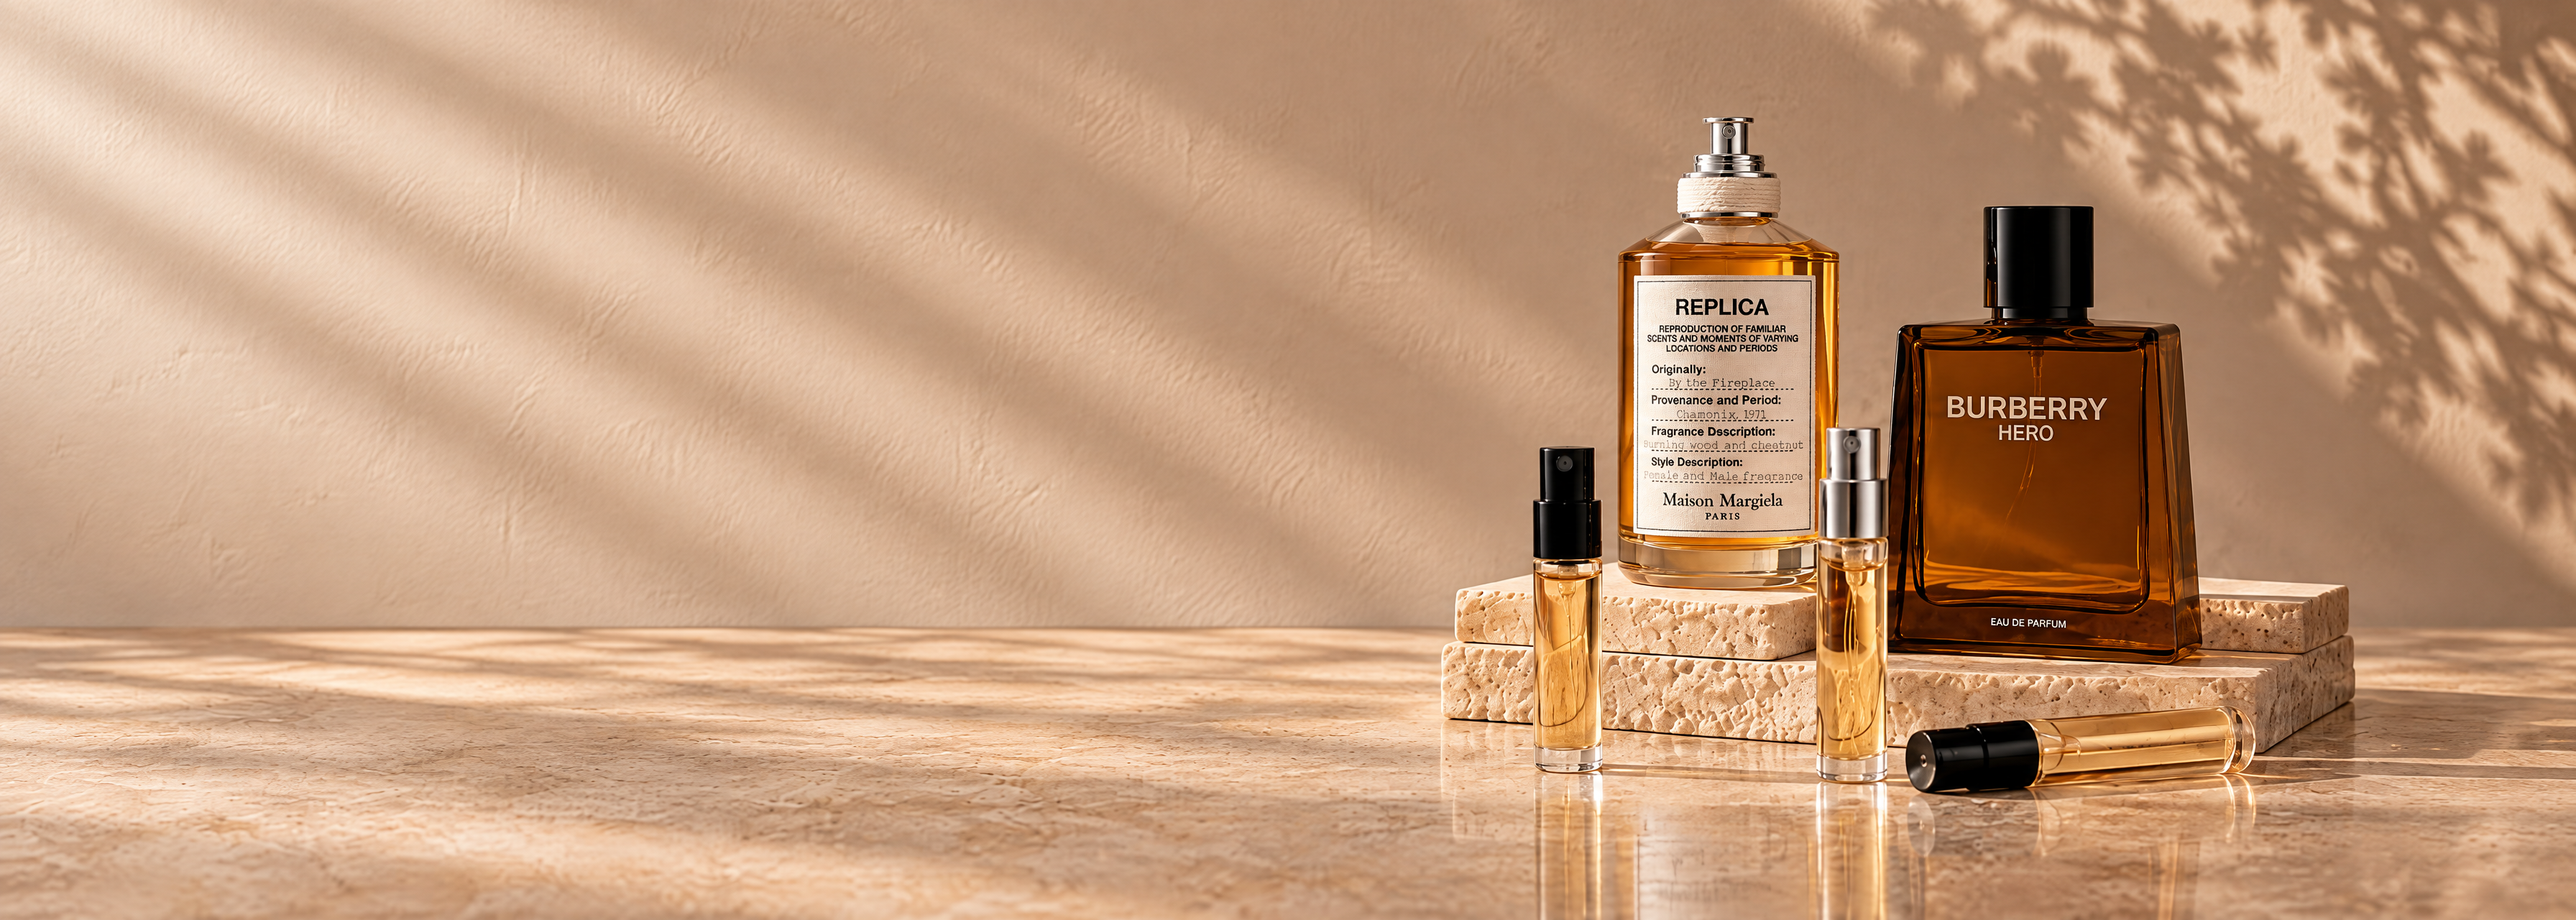
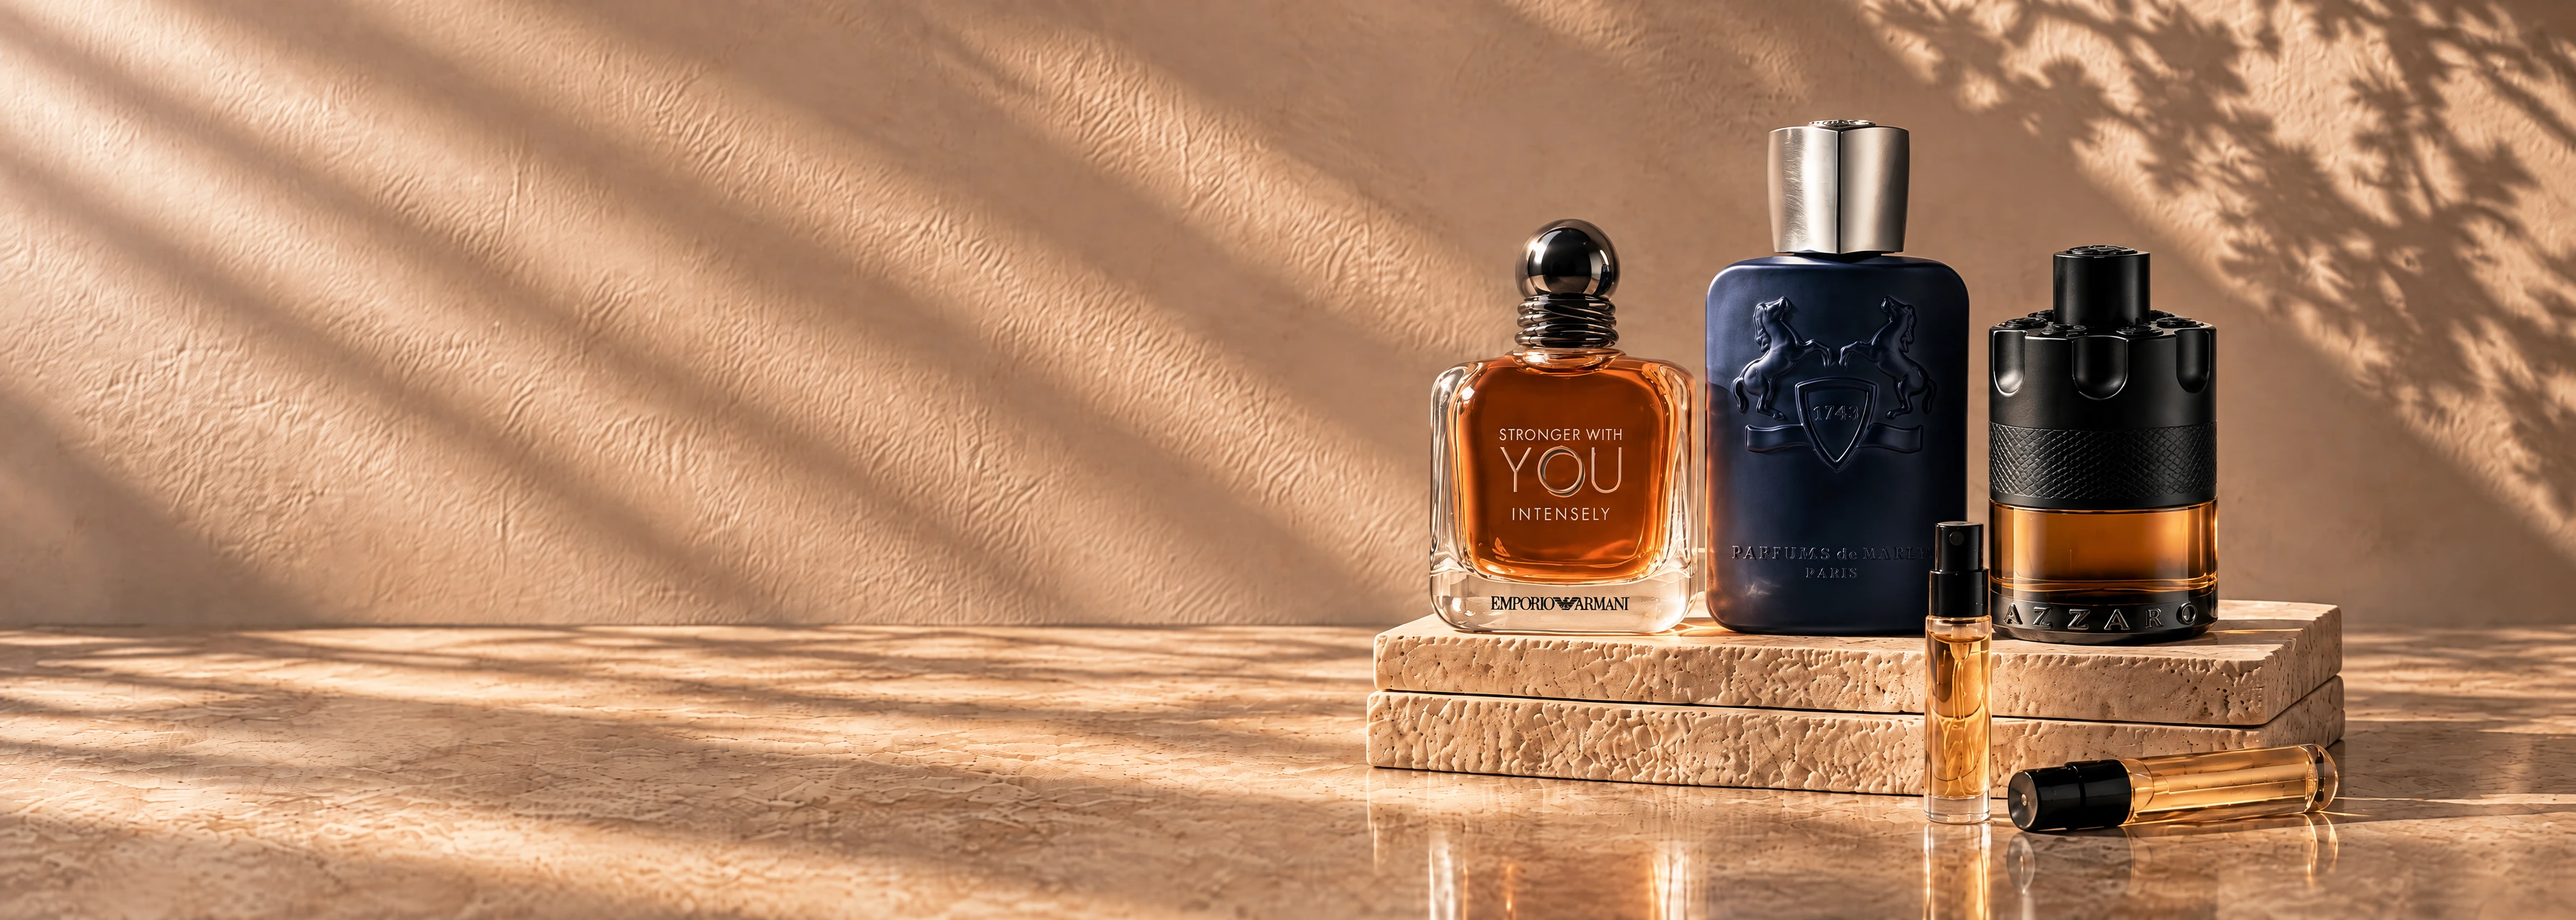
feat(home): hero зургийг Armani SWY Intensely, PdM Layton, Azzaro TMW Parfum-аар солив
- hero-desktop-v4-{1600,2400,3200}.webp, hero-mobile-v4.webp; v3 файлуудыг устгав
- утасны зурагт барааг 62%-иас баруун тийш, тексттэй давхцахгүй
- prompts/hero-{desktop,mobile}.md-д v4 prompt

diff --git a/src/features/marketing/home-content.ts b/src/features/marketing/home-content.ts
@@ -47,16 +47,16 @@ export type HomeCampaignImage =
  */
 const HERO_PHOTO: HomeCampaignImage = {
   kind: "static",
-  src: "/hero-desktop-v3-1600.webp",
+  src: "/hero-desktop-v4-1600.webp",
   width: 1600,
   height: 571,
   srcSet: [1600, 2400, 3200]
-    .map((w) => `/hero-desktop-v3-${w}.webp ${w}w`)
+    .map((w) => `/hero-desktop-v4-${w}.webp ${w}w`)
     .join(", "),
-  alt: "Maison Margiela Replica, Burberry Hero болон decant савнууд",
+  alt: "Armani Stronger With You Intensely, Parfums de Marly Layton, Azzaro The Most Wanted Parfum болон decant савнууд",
   // Зургийг солихдоо файлын НЭРИЙГ ч соль: ижил URL-д Next-ийн зургийн кэш
   // (.next/cache/images, Vercel CDN) болон Safari хуучин зургийг өгсөөр байдаг.
-  mobile: { src: "/hero-mobile-4x3.webp", width: 1365, height: 1024 },
+  mobile: { src: "/hero-mobile-v4.webp", width: 1600, height: 1200 },
 };
 
 export interface HomeCampaign {

diff --git a/prompts/hero-mobile.md b/prompts/hero-mobile.md
@@ -3,7 +3,7 @@
 > Солих бүрэн дараалал: [hero.md](./hero.md).
 
 **Model:** `gpt-image-2` · **edits** endpoint · size **2048×1536** (4:3 шууд; артефакт гарвал 1536×1152) · quality high · `input_fidelity=high`
-**Reference (input) images:** 1) барааны цэвэр бүтээгдэхүүний зураг (шошго тод), 2) `public/desktop.webp` — бараа, гэрэл, өнгө.
+**Reference (input) images:** 1) Armani Stronger With You Intensely, 2) Parfums de Marly Layton, 3) Azzaro The Most Wanted Parfum — цэвэр бүтээгдэхүүний зураг (шошго тод), 4) `public/desktop.webp` — бараа, гэрэл, өнгө.
 **Output:** `public/mobile.png` (эх, тайрахгүй) → `resize(1600)` webp q85 →
 `public/hero-mobile-v<N>.webp`; `home-content.ts`-ийн `HERO_PHOTO.mobile` = бодит өргөн/өндөр (1600 / 1200).
 Дахин солихдоо **шинэ файлын нэр** өг (кэш ижил URL-д хуучин зургийг өгдөг). Дэлгэрэнгүй: [hero.md](./hero.md) §4–5.
@@ -24,11 +24,15 @@
 360px-ээс нарийн утсанд `min-h-64` картыг 4:3-аас өндөр болгож зүүн талаас
 тайрна (320px дээр ~16%) — бараа текст рүү ойртоно, гэхдээ товч, гарчиг давхцахгүй.
 
-## Prompt (2026-10-24, v3 — шууд 4:3)
+## Prompt (2026-10-24, v4 — 3 бүтэн сав, шууд 4:3)
 
-Image 1 is the exact product reference — reproduce the bottle labels faithfully, sharp and legible. Image 2 is the scene reference for lighting and color.
+Image 4 = шинэ desktop зураг (`public/desktop.webp`) — хоёр хувилбар ижил харагдана.
+v4-ийн эхний оролдлогод бараа 47%-иас эхэлж 390px дээр тайлбарын текст Armani-тай
+давхацсан тул бүсийг 62% болгож, савыг жижигрүүлэхийг тодорхой бичсэн.
 
-Recompose the scene from image 2 as a horizontal photograph with a 4:3 aspect ratio. Keep the same products, materials, lighting, warm beige color palette and photographic style. The left 58% of the frame must be completely empty: only a smooth warm beige plaster wall with soft diagonal window-light shadows above a polished beige stone surface — no objects, no bottles, no props, no text in that area, including the bottom-left corner. Place all the products tightly grouped between 58% and 95% of the frame width, leaving a small margin from the right edge: the travertine stone blocks with the large amber Maison Margiela Replica bottle and the dark brown rectangular Burberry Hero bottle side by side on top, two small glass decant spray vials standing in front, one decant vial lying on the surface in front. The tallest bottle top at about 15% from the top edge and the lowest point of any product at about 85% from the top edge. The wall and the stone surface continue to every edge of the frame. A faint leaf shadow in the top right corner. Camera at product level, 50mm lens look, tack-sharp focus on the products, crisp legible bottle labels, natural soft shadows, realistic reflections, unretouched commercial product photograph. No added text, no logos other than what is printed on the original bottles, no watermark.
+Images 1, 2 and 3 are the exact product references — reproduce each bottle's shape, cap, glass color and printed text faithfully, sharp and legible: image 1 is Emporio Armani "Stronger With You Intensely" (amber square glass bottle, dark gunmetal round cap), image 2 is Parfums de Marly "Layton" (deep navy blue rectangular bottle with embossed rearing horses and "1743" crest, silver cap) — show it standing upright and photographed straight from the front, ignore the angle and background of its reference photo, image 3 is Azzaro "The Most Wanted Parfum" (black ribbed metal top with revolver-cylinder cap, amber liquid, "AZZARO" lettering at the base). Image 4 is the scene reference for lighting, color and product arrangement.
+
+Recompose the scene from image 4 as a horizontal photograph with a 4:3 aspect ratio. Keep the same three bottles, decant vials, travertine stone blocks, materials, lighting, warm beige color palette and photographic style as image 4. The left 62% of the frame must be completely empty: only a smooth warm beige plaster wall with soft diagonal window-light shadows above a polished beige stone surface — no objects, no bottles, no props, no text in that area, including the bottom-left corner. Place all the products tightly grouped between 62% and 93% of the frame width — keep the bottles noticeably smaller than in the reference so they fit inside this narrow area; nothing may extend left of 62% or right of 93%. On top of the travertine stone blocks stand three full-size bottles side by side, all upright and facing the camera — the Armani bottle on the left, the Parfums de Marly Layton bottle in the center and slightly taller, the Azzaro bottle on the right. One small glass decant spray vial stands on the surface in front, and one decant vial lies on the surface in front. Each full bottle is clearly visible, not hidden behind another. The tallest bottle top at about 30% from the top edge and the lowest point of any product at about 85% from the top edge. The wall and the stone surface continue to every edge of the frame. A faint leaf shadow in the top right corner. Camera at product level, 50mm lens look, tack-sharp focus on the products, crisp legible bottle labels, natural soft shadows, realistic reflections, unretouched commercial product photograph. No added text, no logos other than what is printed on the original bottles, no watermark.
 
 ## Шалгах
 

diff --git a/prompts/hero-desktop.md b/prompts/hero-desktop.md
@@ -4,7 +4,7 @@
 
 **Model:** `gpt-image-2` · **edits** endpoint · size **3584×1280** (2.8:1 шууд) · quality high · `input_fidelity=high`
 (хэмжээ 16-ын үржвэр, харьцаа ≤3:1, урт тал <3840. Артефакт гарвал **2688×960**.)
-**Reference (input) images:** 1) Replica-гийн бүтээгдэхүүний цэвэр зураг (шошгоны бичиг тод), 2) өмнөх hero.
+**Reference (input) images:** 1) Armani Stronger With You Intensely, 2) Parfums de Marly Layton, 3) Azzaro The Most Wanted Parfum — цэвэр бүтээгдэхүүний зураг (шошго тод), 4) өмнөх hero (`public/desktop.webp`).
 **Output:** `public/desktop.webp` (3584×1280, тайраагүй) → sharp-аар 1600/2400/3200 өргөн, q80
 → `public/hero-desktop-v3-{w}.webp`; `HERO_PHOTO.srcSet`-ээр шууд өгнө (Next optimizer 1600-аар
 хязгаарлагдсан тул ашиглахгүй).
@@ -39,13 +39,15 @@ Mac (≈2.96:1) дээр тасарч байсан.
 
 Шууд 2.8:1 generate хийх тул prompt дахь хувь = эцсийн хүрээний хувь.
 
-## Prompt (2026-10-24, v2 — шууд 2.8:1)
+## Prompt (2026-10-24, v4 — 3 бүтэн сав, шууд 2.8:1)
 
-Recompose this exact scene as an ultra-wide horizontal photograph with a 2.8:1 aspect ratio. Keep the same products, materials, lighting, warm beige color palette and photographic style as the reference. The left 55% of the frame must be completely empty: only a smooth warm beige plaster wall with soft diagonal window-light shadows above a polished beige stone surface — no objects, no bottles, no props, no text in that area. Place all the products tightly grouped between 55% and 88% of the frame width, leaving a clear margin of empty wall on the right: the travertine stone blocks with the large amber Maison Margiela-style bottle and the dark brown rectangular bottle side by side on top, two small glass decant spray vials standing in front, one decant vial lying on the surface in front. The tallest bottle top at about 14% from the top edge and the lowest point of any product at about 86% from the top edge. The wall and the stone surface continue to every edge of the frame. A faint leaf shadow in the upper right. Camera at product level, 50mm lens look, tack-sharp focus on the products, crisp legible bottle labels, natural soft shadows, realistic reflections, unretouched commercial product photograph. No added text, no logos other than what is printed on the original bottles, no watermark.
+Images 1, 2 and 3 are the exact product references — reproduce each bottle's shape, cap, glass color and printed text faithfully, sharp and legible: image 1 is Emporio Armani "Stronger With You Intensely" (amber square glass bottle, dark gunmetal round cap), image 2 is Parfums de Marly "Layton" (deep navy blue rectangular bottle with embossed rearing horses and "1743" crest, silver cap) — show it standing upright and photographed straight from the front, ignore the angle and background of its reference photo, image 3 is Azzaro "The Most Wanted Parfum" (black ribbed metal top with revolver-cylinder cap, amber liquid, "AZZARO" lettering at the base). Image 4 is the scene reference for lighting, color and composition.
+
+Recompose the scene from image 4 as an ultra-wide horizontal photograph with a 2.8:1 aspect ratio. Replace the bottles in image 4 with these three products; keep the same travertine stone blocks, materials, lighting, warm beige color palette and photographic style. The left 55% of the frame must be completely empty: only a smooth warm beige plaster wall with soft diagonal window-light shadows above a polished beige stone surface — no objects, no bottles, no props, no text in that area. Place all the products tightly grouped between 55% and 88% of the frame width, leaving a clear margin of empty wall on the right: on top of the travertine stone blocks stand three full-size bottles side by side, all upright and facing the camera — the Armani bottle on the left, the Parfums de Marly Layton bottle in the center and slightly taller, the Azzaro bottle on the right. One small glass decant spray vial stands on the surface in front, and one decant vial lies on the surface in front. Each full bottle is clearly visible, not hidden behind another. The tallest bottle top at about 14% from the top edge and the lowest point of any product at about 86% from the top edge. The wall and the stone surface continue to every edge of the frame. A faint leaf shadow in the upper right. Camera at product level, 50mm lens look, tack-sharp focus on the products, crisp legible bottle labels, natural soft shadows, realistic reflections, unretouched commercial product photograph. No added text, no logos other than what is printed on the original bottles, no watermark.
 
 ## Зураг солиход кодод
 
-- `home-content.ts` → `HERO_PHOTO`: `src` = шинэ файл (одоо `hero-desktop-v2.webp`), `width`/`height` = webp-ийн бодит хэмжээ.
+- `home-content.ts` → `HERO_PHOTO`: `src` = шинэ файл (одоо `hero-desktop-v4-{1600,2400,3200}.webp`), `width`/`height` = webp-ийн бодит хэмжээ.
 - `campaign-hero.tsx` → `sm:aspect-1983/793`-ийг шинэ харьцаагаар; `getImageProps`-ийн
   fallback `1983`/`793`-ийг мөн.
 - `sm:object-[65%_50%]`: v1 зурагт бараа баруун захаас ~8% (12% биш) тул 2.2:1 үед
